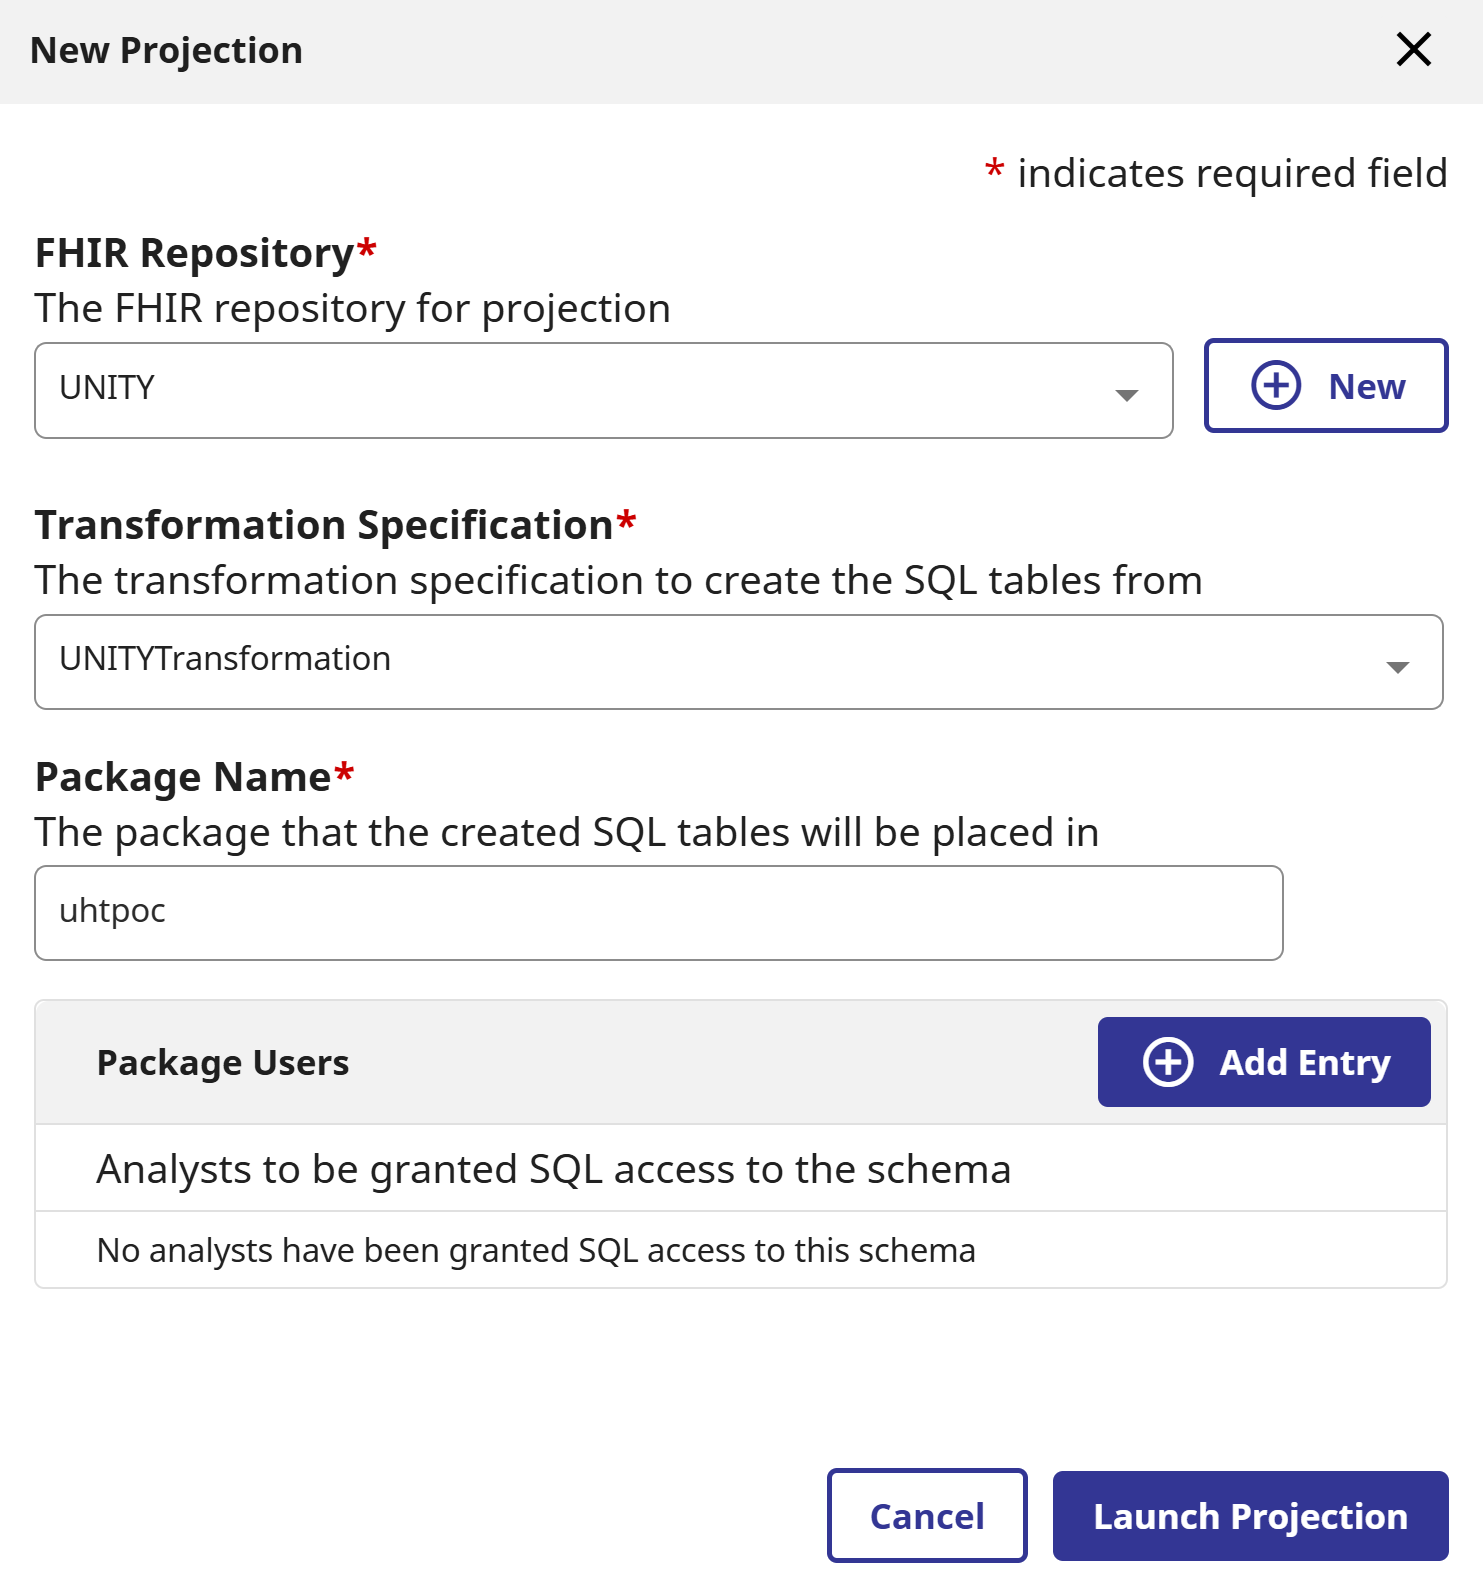
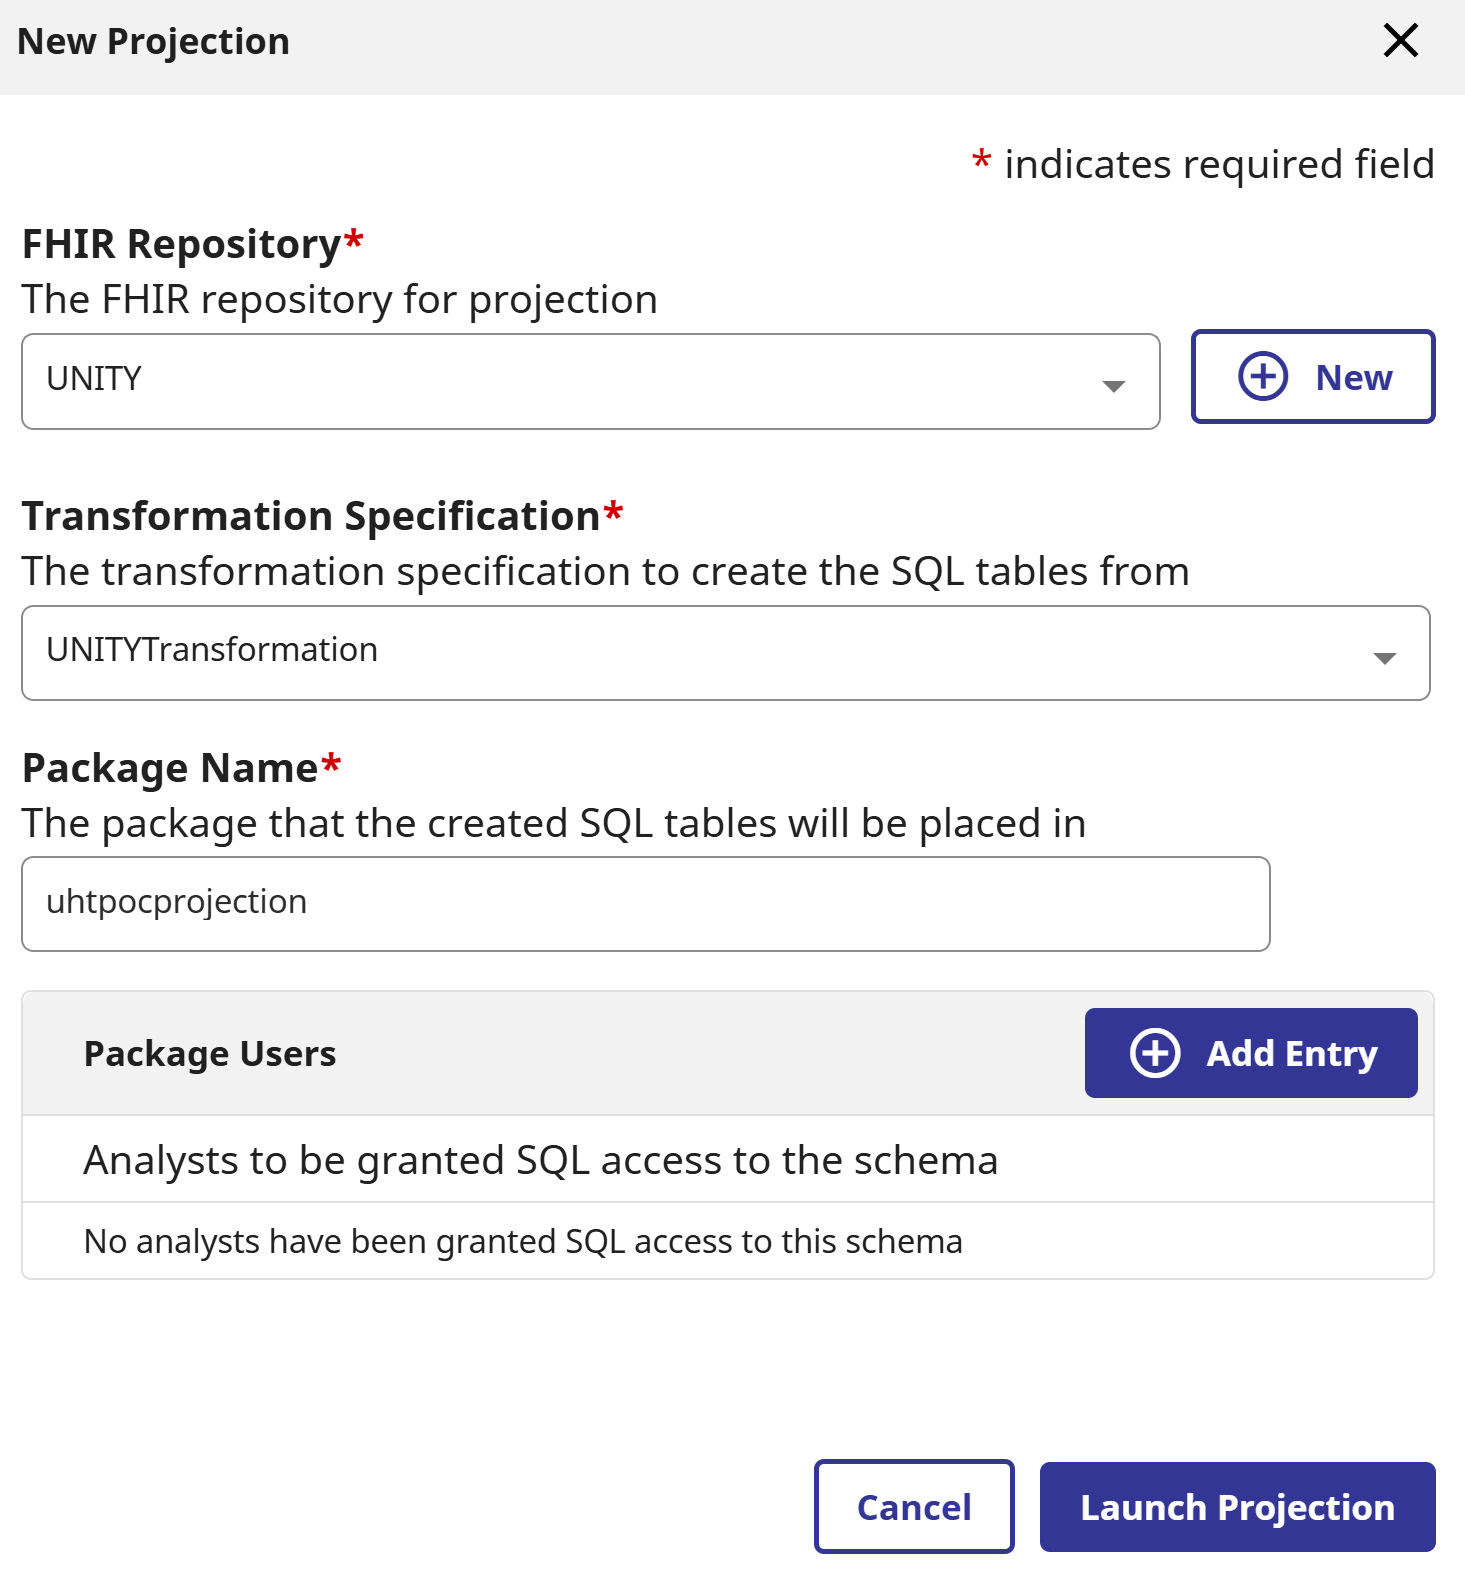
feat: complete data validation exercise

diff --git a/pages/poc-exercise-4.html b/pages/poc-exercise-4.html
@@ -646,7 +646,7 @@
               <ul class="bullets">
                 <li><strong>FHIR Repository:</strong> &lt;Select the FHIR repository you created earlier in the Analyses section, i.e. UNITY&gt;</li>
                 <li><strong>Transformation Specification:</strong> &lt;Select the transformation specification you created in the previous section, i.e. UNITYTransformation&gt;</li>
-                <li><strong>Package Name:</strong>uhtpoc (this can be anything, but these instructions will assume uhtpoc)</li>
+                <li><strong>Package Name:</strong>uhtpocprojection (this can be anything, but these instructions will assume uhtpocprojection)</li>
                 <li>Click "Launch Projection."</li>
               </ul>
 
@@ -767,9 +767,9 @@
             <input type="checkbox" data-step="6" />
             <span>
               <strong>6.</strong> Paste in the following query:
-              <pre><code>SELECT * FROM UNITYPKG.Encounter 
-LEFT JOIN UNITYPKG.Patient
-ON UNITYPKG.Patient.Key = UNITYPKG.Encounter.PatientReference</code></pre>
+              <pre><code>SELECT * FROM uhtpocprojection.Encounter
+LEFT JOIN uhtpocprojection.Patient
+ON uhtpocprojection.Patient.Key = uhtpocprojection.Encounter.PatientReference</code></pre>
 
 
               Execute this query by clicking the orange triangle to the left of the query.
@@ -779,17 +779,35 @@ ON UNITYPKG.Patient.Key = UNITYPKG.Encounter.PatientReference</code></pre>
           <label class="checklist__item">
             <input type="checkbox" data-step="7" />
             <span>
-              <strong>7.</strong> 
+              <strong>7.</strong> Try another query with Conditions:
+<pre><code>SELECT c.ConditionCodeCodingDisplay, p.PatientNameFamily , p.PatientNameGiven FROM uhtpocprojection.Condition As c
+LEFT JOIN uhtpocprojection.Patient As p
+ON p.Key = c.ConditionSubjectReference
+WHERE ConditionCodeCodingDisplay LIKE 'Hyper%'</code></pre>
             </span>
           </label>
 
           <div class="checklist__actions">
             <button class="btn" type="button" data-reset-checklist>Reset section</button>
           </div>
+
+          <div class="details__content">
+            <p class="muted">Ysou have successfully queried on top of FHIR data using SQL!</p>
+          </div>
         </form>
       </details>
     </section>
+
+    <section id="license" class="section">
+      <div class="section__header">
+        <h2>Congratulations 🎉</h2>
+        </div>
+        <p>
+          You have completed our POC!
+        </p>
+      </section>
   </main>
+  
 
   <footer class="footer">
     <div class="container footer__inner">
